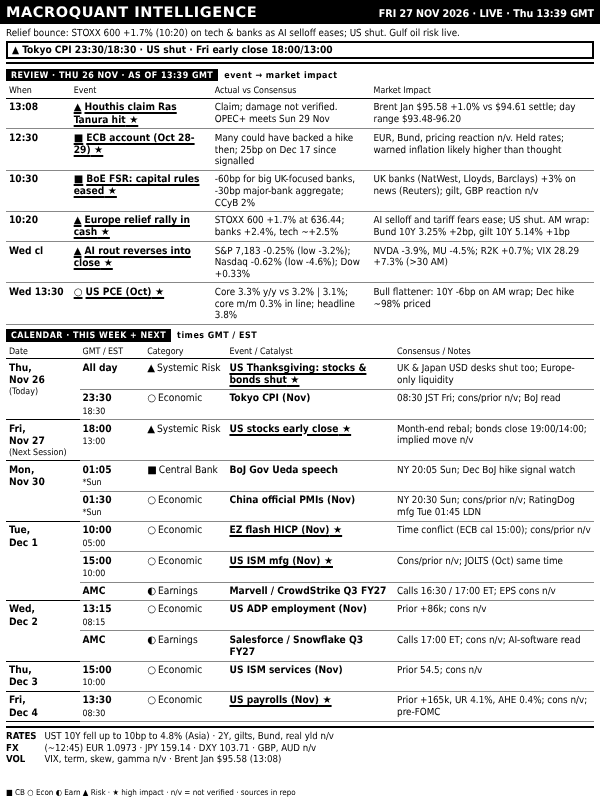
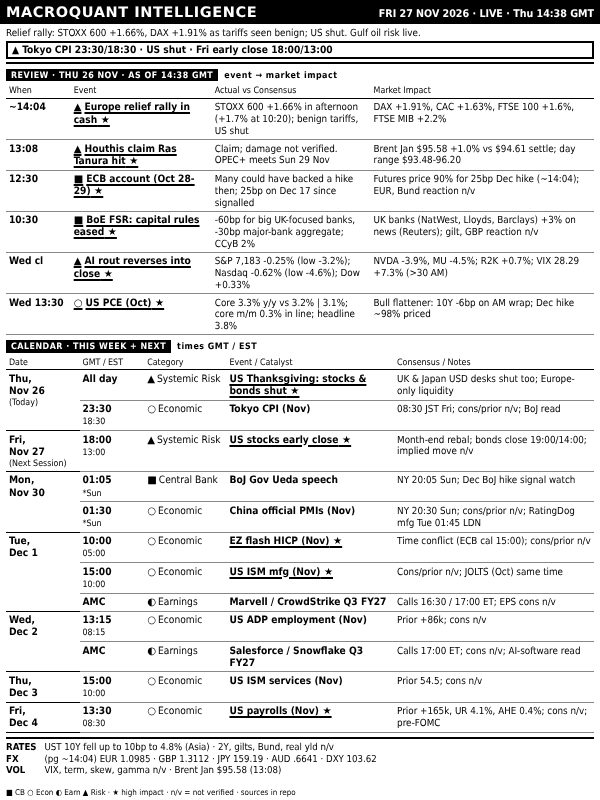
dashboard: FRI 27 NOV 2026 LIVE 14:38
Claude-Session: https://claude.ai/code/session_016SJqa5tXBVyrdixqwC28nd

diff --git a/out/dashboard.html b/out/dashboard.html
@@ -38,12 +38,12 @@ table.bd{border-collapse:collapse;width:100%;table-layout:fixed;margin-top:1px}
 </style></head><body>
 <div id="root">
  <div class="hdr"><span class="t">MACROQUANT INTELLIGENCE</span>
-  <span class="r">FRI 27 NOV 2026 · LIVE · Thu 13:39 GMT</span></div>
- <div class="ban"><div class="rg">Relief bounce: STOXX 600 +1.7% (10:20) on tech &amp; banks as AI selloff eases; US shut. Gulf oil risk live.</div><div class="al">▲ Tokyo CPI 23:30/18:30 · US shut · Fri early close 18:00/13:00</div></div>
- <div class="sl"><span>REVIEW · THU 26 NOV · AS OF 13:39 GMT</span>event → market impact</div><table class="bd rv"><colgroup><col style="width:11%"><col style="width:24%"><col style="width:27%"><col></colgroup><tr><th>When</th><th>Event</th><th>Actual vs Consensus</th><th>Market Impact</th></tr><tr class="h"><td class="tm"><b>13:08</b></td><td class="ev"><i>▲</i>Houthis claim Ras Tanura hit</td><td class="ac">Claim; damage not verified. OPEC+ meets Sun 29 Nov</td><td class="nt">Brent Jan $95.58 +1.0% vs $94.61 settle; day range $93.48-96.20</td></tr><tr class="h"><td class="tm"><b>12:30</b></td><td class="ev"><i>■</i>ECB account (Oct 28-29)</td><td class="ac">Many could have backed a hike then; 25bp on Dec 17 since signalled</td><td class="nt">EUR, Bund, pricing reaction n/v. Held rates; warned inflation likely higher than thought</td></tr><tr class="h"><td class="tm"><b>10:30</b></td><td class="ev"><i>■</i>BoE FSR: capital rules eased</td><td class="ac">-60bp for big UK-focused banks, -30bp major-bank aggregate; CCyB 2%</td><td class="nt">UK banks (NatWest, Lloyds, Barclays) +3% on news (Reuters); gilt, GBP reaction n/v</td></tr><tr class="h"><td class="tm"><b>10:20</b></td><td class="ev"><i>▲</i>Europe relief rally in cash</td><td class="ac">STOXX 600 +1.7% at 636.44; banks +2.4%, tech ~+2.5%</td><td class="nt">AI selloff and tariff fears ease; US shut. AM wrap: Bund 10Y 3.25% +2bp, gilt 10Y 5.14% +1bp</td></tr><tr class="h"><td class="tm"><b>Wed cl</b></td><td class="ev"><i>▲</i>AI rout reverses into close</td><td class="ac">S&amp;P 7,183 -0.25% (low -3.2%); Nasdaq -0.62% (low -4.6%); Dow +0.33%</td><td class="nt">NVDA -3.9%, MU -4.5%; R2K +0.7%; VIX 28.29 +7.3% (&gt;30 AM)</td></tr><tr class="h"><td class="tm"><b>Wed 13:30</b></td><td class="ev"><i>○</i>US PCE (Oct)</td><td class="ac">Core 3.3% y/y vs 3.2% | 3.1%; core m/m 0.3% in line; headline 3.8%</td><td class="nt">Bull flattener: 10Y -6bp on AM wrap; Dec hike ~98% priced</td></tr></table>
+  <span class="r">FRI 27 NOV 2026 · LIVE · Thu 14:38 GMT</span></div>
+ <div class="ban"><div class="rg">Relief rally: STOXX 600 +1.66%, DAX +1.91% as tariffs seen benign; US shut. Gulf oil risk live.</div><div class="al">▲ Tokyo CPI 23:30/18:30 · US shut · Fri early close 18:00/13:00</div></div>
+ <div class="sl"><span>REVIEW · THU 26 NOV · AS OF 14:38 GMT</span>event → market impact</div><table class="bd rv"><colgroup><col style="width:11%"><col style="width:24%"><col style="width:27%"><col></colgroup><tr><th>When</th><th>Event</th><th>Actual vs Consensus</th><th>Market Impact</th></tr><tr class="h"><td class="tm"><b>~14:04</b></td><td class="ev"><i>▲</i>Europe relief rally in cash</td><td class="ac">STOXX 600 +1.66% in afternoon (+1.7% at 10:20); benign tariffs, US shut</td><td class="nt">DAX +1.91%, CAC +1.63%, FTSE 100 +1.6%, FTSE MIB +2.2%</td></tr><tr class="h"><td class="tm"><b>13:08</b></td><td class="ev"><i>▲</i>Houthis claim Ras Tanura hit</td><td class="ac">Claim; damage not verified. OPEC+ meets Sun 29 Nov</td><td class="nt">Brent Jan $95.58 +1.0% vs $94.61 settle; day range $93.48-96.20</td></tr><tr class="h"><td class="tm"><b>12:30</b></td><td class="ev"><i>■</i>ECB account (Oct 28-29)</td><td class="ac">Many could have backed a hike then; 25bp on Dec 17 since signalled</td><td class="nt">Futures price 90% for 25bp Dec hike (~14:04); EUR, Bund reaction n/v</td></tr><tr class="h"><td class="tm"><b>10:30</b></td><td class="ev"><i>■</i>BoE FSR: capital rules eased</td><td class="ac">-60bp for big UK-focused banks, -30bp major-bank aggregate; CCyB 2%</td><td class="nt">UK banks (NatWest, Lloyds, Barclays) +3% on news (Reuters); gilt, GBP reaction n/v</td></tr><tr class="h"><td class="tm"><b>Wed cl</b></td><td class="ev"><i>▲</i>AI rout reverses into close</td><td class="ac">S&amp;P 7,183 -0.25% (low -3.2%); Nasdaq -0.62% (low -4.6%); Dow +0.33%</td><td class="nt">NVDA -3.9%, MU -4.5%; R2K +0.7%; VIX 28.29 +7.3% (&gt;30 AM)</td></tr><tr class="h"><td class="tm"><b>Wed 13:30</b></td><td class="ev"><i>○</i>US PCE (Oct)</td><td class="ac">Core 3.3% y/y vs 3.2% | 3.1%; core m/m 0.3% in line; headline 3.8%</td><td class="nt">Bull flattener: 10Y -6bp on AM wrap; Dec hike ~98% priced</td></tr></table>
  <div class="sl"><span>CALENDAR · THIS WEEK + NEXT</span>times GMT / EST</div>
  <table class="bd"><colgroup><col style="width:12.5%"><col style="width:11%"><col style="width:14%"><col style="width:28.5%"><col></colgroup><tr><th>Date</th><th>GMT / EST</th><th>Category</th><th>Event / Catalyst</th><th>Consensus / Notes</th></tr><tr class="g0 h"><td class="dt" rowspan="2">Thu,<br>Nov&nbsp;26<span class="tg">(Today)</span></td><td class="tm"><b>All day</b></td><td class="ct"><i>▲</i>Systemic Risk</td><td class="ev">US Thanksgiving: stocks &amp; bonds shut</td><td class="nt">UK &amp; Japan USD desks shut too; Europe-only liquidity</td></tr><tr class=""><td class="tm"><b>23:30</b><span>18:30</span></td><td class="ct"><i>○</i>Economic</td><td class="ev">Tokyo CPI (Nov)</td><td class="nt">08:30 JST Fri; cons/prior n/v; BoJ read</td></tr><tr class="g0 h"><td class="dt" rowspan="1">Fri,<br>Nov&nbsp;27<span class="tg">(Next Session)</span></td><td class="tm"><b>18:00</b><span>13:00</span></td><td class="ct"><i>▲</i>Systemic Risk</td><td class="ev">US stocks early close</td><td class="nt">Month-end rebal; bonds close 19:00/14:00; implied move n/v</td></tr><tr class="g0"><td class="dt" rowspan="2">Mon,<br>Nov&nbsp;30</td><td class="tm"><b>01:05</b><span>*Sun</span></td><td class="ct"><i>■</i>Central Bank</td><td class="ev">BoJ Gov Ueda speech</td><td class="nt">NY 20:05 Sun; Dec BoJ hike signal watch</td></tr><tr class=""><td class="tm"><b>01:30</b><span>*Sun</span></td><td class="ct"><i>○</i>Economic</td><td class="ev">China official PMIs (Nov)</td><td class="nt">NY 20:30 Sun; cons/prior n/v; RatingDog mfg Tue 01:45 LDN</td></tr><tr class="g0 h"><td class="dt" rowspan="3">Tue,<br>Dec&nbsp;1</td><td class="tm"><b>10:00</b><span>05:00</span></td><td class="ct"><i>○</i>Economic</td><td class="ev">EZ flash HICP (Nov)</td><td class="nt">Time conflict (ECB cal 15:00); cons/prior n/v</td></tr><tr class="h"><td class="tm"><b>15:00</b><span>10:00</span></td><td class="ct"><i>○</i>Economic</td><td class="ev">US ISM mfg (Nov)</td><td class="nt">Cons/prior n/v; JOLTS (Oct) same time</td></tr><tr class=""><td class="tm"><b>AMC</b></td><td class="ct"><i>◐</i>Earnings</td><td class="ev">Marvell / CrowdStrike Q3 FY27</td><td class="nt">Calls 16:30 / 17:00 ET; EPS cons n/v</td></tr><tr class="g0"><td class="dt" rowspan="2">Wed,<br>Dec&nbsp;2</td><td class="tm"><b>13:15</b><span>08:15</span></td><td class="ct"><i>○</i>Economic</td><td class="ev">US ADP employment (Nov)</td><td class="nt">Prior +86k; cons n/v</td></tr><tr class=""><td class="tm"><b>AMC</b></td><td class="ct"><i>◐</i>Earnings</td><td class="ev">Salesforce / Snowflake Q3 FY27</td><td class="nt">Calls 17:00 ET; cons n/v; AI-software read</td></tr><tr class="g0"><td class="dt" rowspan="1">Thu,<br>Dec&nbsp;3</td><td class="tm"><b>15:00</b><span>10:00</span></td><td class="ct"><i>○</i>Economic</td><td class="ev">US ISM services (Nov)</td><td class="nt">Prior 54.5; cons n/v</td></tr><tr class="g0 h"><td class="dt" rowspan="1">Fri,<br>Dec&nbsp;4</td><td class="tm"><b>13:30</b><span>08:30</span></td><td class="ct"><i>○</i>Economic</td><td class="ev">US payrolls (Nov)</td><td class="nt">Prior +165k, UR 4.1%, AHE 0.4%; cons n/v; pre-FOMC</td></tr></table>
- <div class="lv"><div><b>RATES</b>UST 10Y fell up to 10bp to 4.8% (Asia) · 2Y, gilts, Bund, real yld n/v</div><div><b>FX</b>(~12:45) EUR 1.0973 · JPY 159.14 · DXY 103.71 · GBP, AUD n/v</div><div><b>VOL</b>VIX, term, skew, gamma n/v · Brent Jan $95.58 (13:08)</div></div>
+ <div class="lv"><div><b>RATES</b>UST 10Y fell up to 10bp to 4.8% (Asia) · 2Y, gilts, Bund, real yld n/v</div><div><b>FX</b>(pg ~14:04) EUR 1.0985 · GBP 1.3112 · JPY 159.19 · AUD .6641 · DXY 103.62</div><div><b>VOL</b>VIX, term, skew, gamma n/v · Brent Jan $95.58 (13:08)</div></div>
 </div>
 <div class="foot">■ CB ○ Econ ◐ Earn ▲ Risk · ★ high impact · n/v = not verified · sources in repo</div>
 </body></html>
